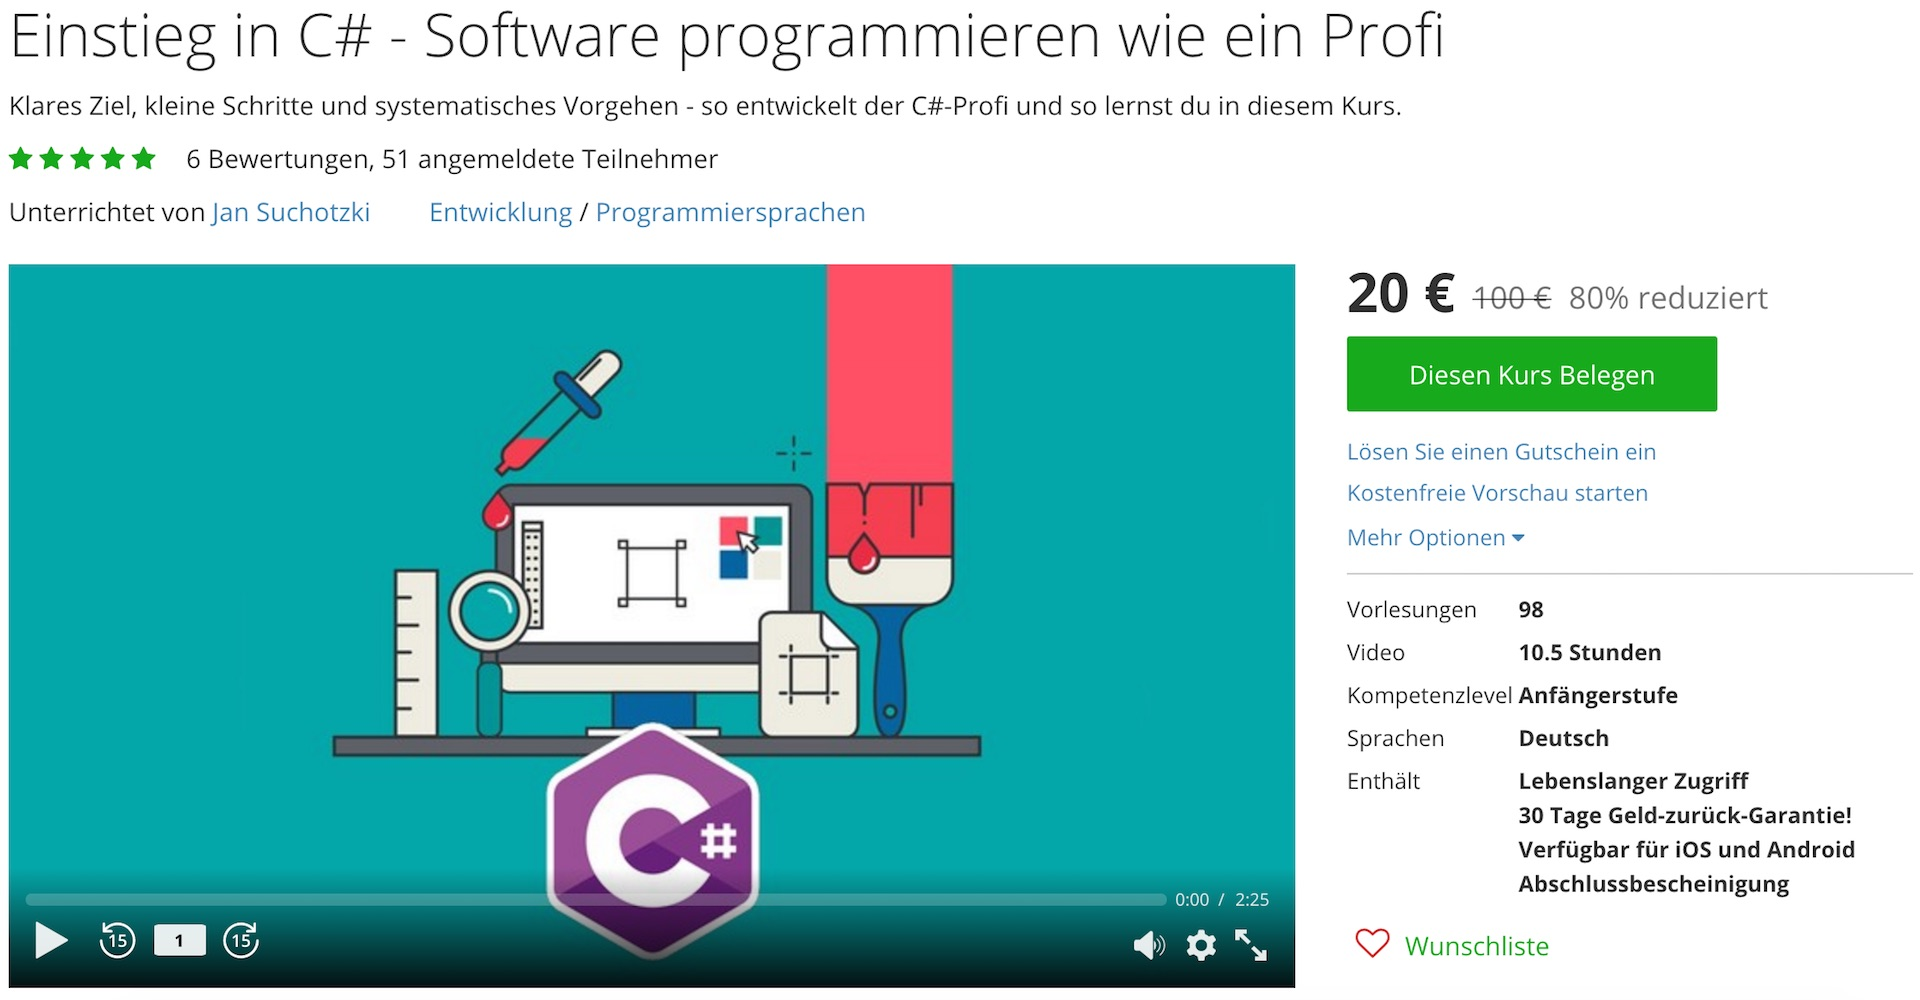
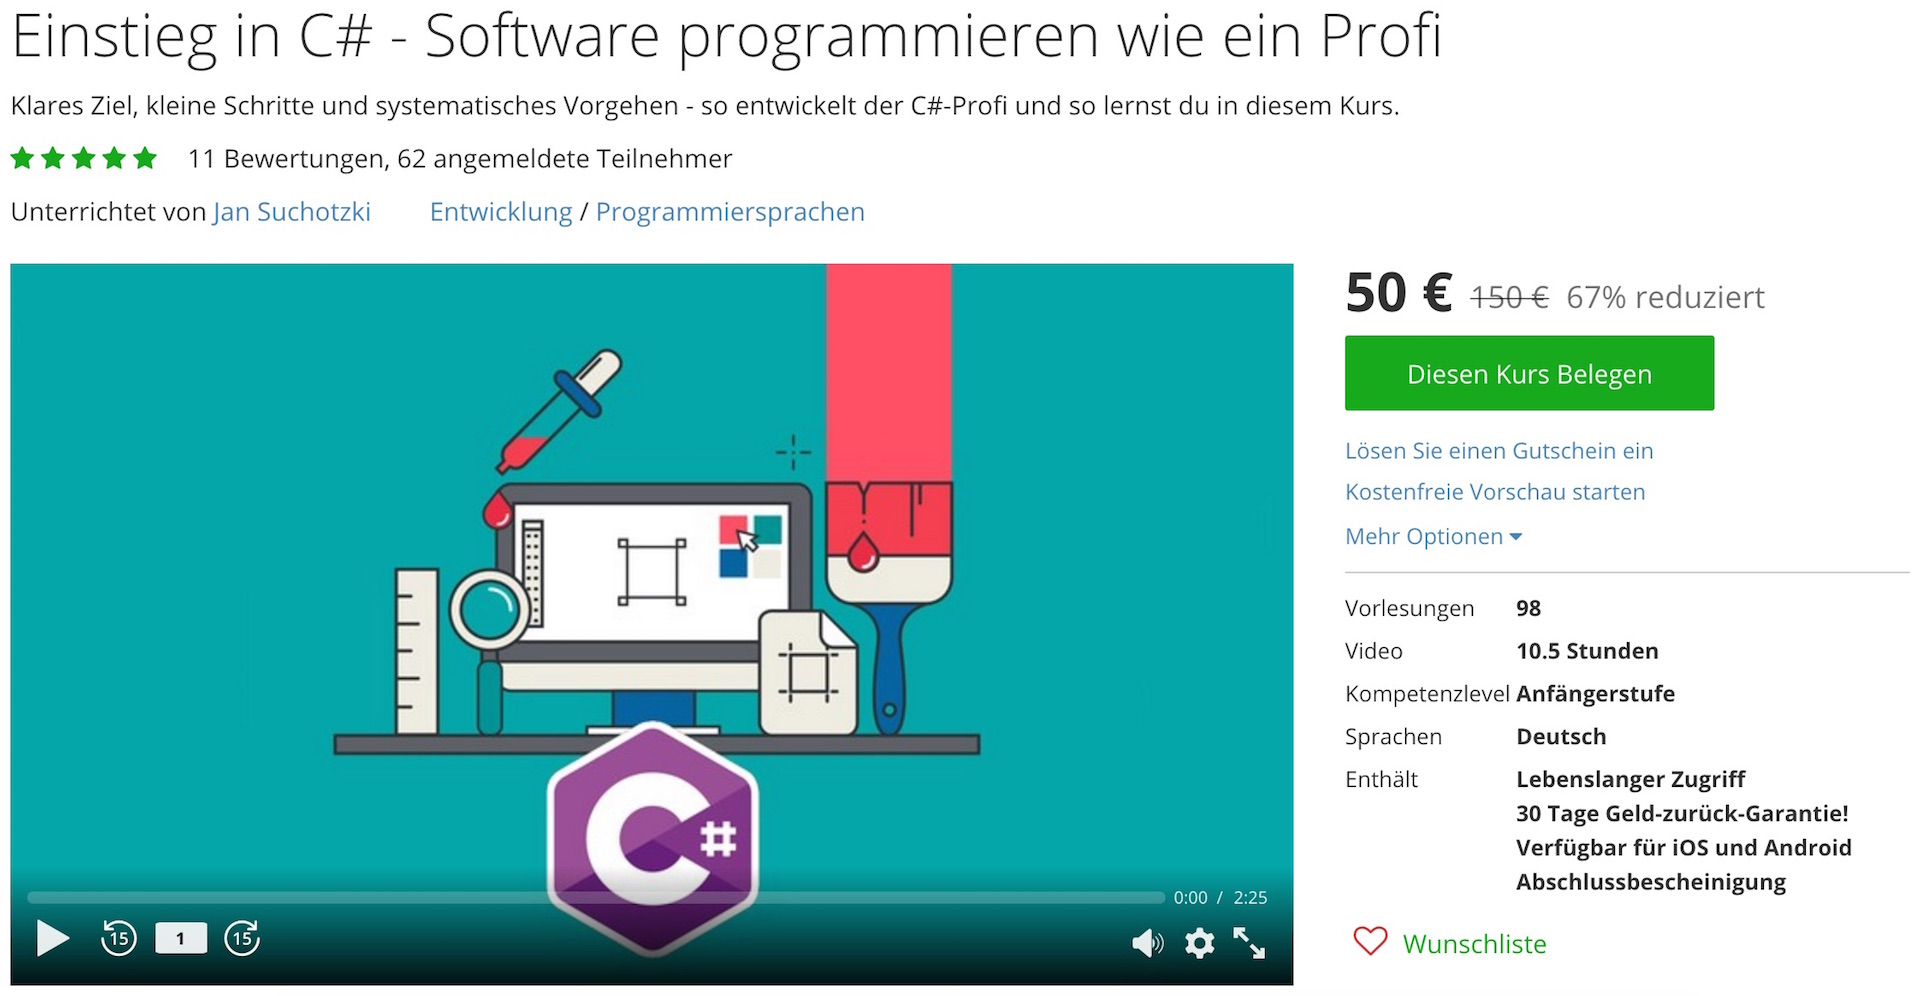
Beendet den Einführungsrabatt von 80% und fügt anstelle dessen 50€ Coupons ein.

diff --git a/einstieg-csharp/index.md b/einstieg-csharp/index.md
@@ -12,9 +12,9 @@ date: 2016-02-03T09:30:00+01:00
 
 Mit diesem Kurs hast du in 30 Minuten deine erste C#-Anwendung entwickelt. Viel wichtiger ist jedoch, dass du nicht nur Programmieren lernst, sondern die Arbeitsweise, die professionelle Softwareentwickler verwenden, um herausragende Anwendungen zu entwickeln. Ich verdiene seit über 13 Jahren mit Softwareentwicklung mein Geld und erkläre dir in diesem Kurs anhand vieler Beispiele, Übungen und direktem Feedback die wichtigsten Aspekte der professionellen Softwareentwicklung.
 
-Alles Wissenswerte zum Kurs und **80% Einführungsrabatt** bekommst du, wenn du auf das folgende Bild klickst. Weiter unten findest du (kostenloses) Bonusmaterial zum Kurs. 
+Alles Wissenswerte zum Kurs bekommst du, wenn du auf das folgende Bild klickst. Für dich als Leser meines Blogs gibt es auch einen Rabatt. Weiter unten findest du (kostenloses) Bonusmaterial zum Kurs. 
 <figure>
-	<a href="https://www.udemy.com/einstieg-in-csharp-software-programmieren-wie-ein-profi/?couponCode=UCsK_EinSta" target="_blank"><img src="/images/UCsK_LandingPage_Rabatt_Gross.jpg" alt="image"></a>
+	<a href="https://www.udemy.com/einstieg-in-csharp-software-programmieren-wie-ein-profi/?couponCode=LM2016_UCsK" target="_blank"><img src="/images/UCsK_LandingPage_Rabatt_Gross.jpg" alt="image"></a>
 </figure>
 
 ## Details und weitere Ressourcen zum Kurs
